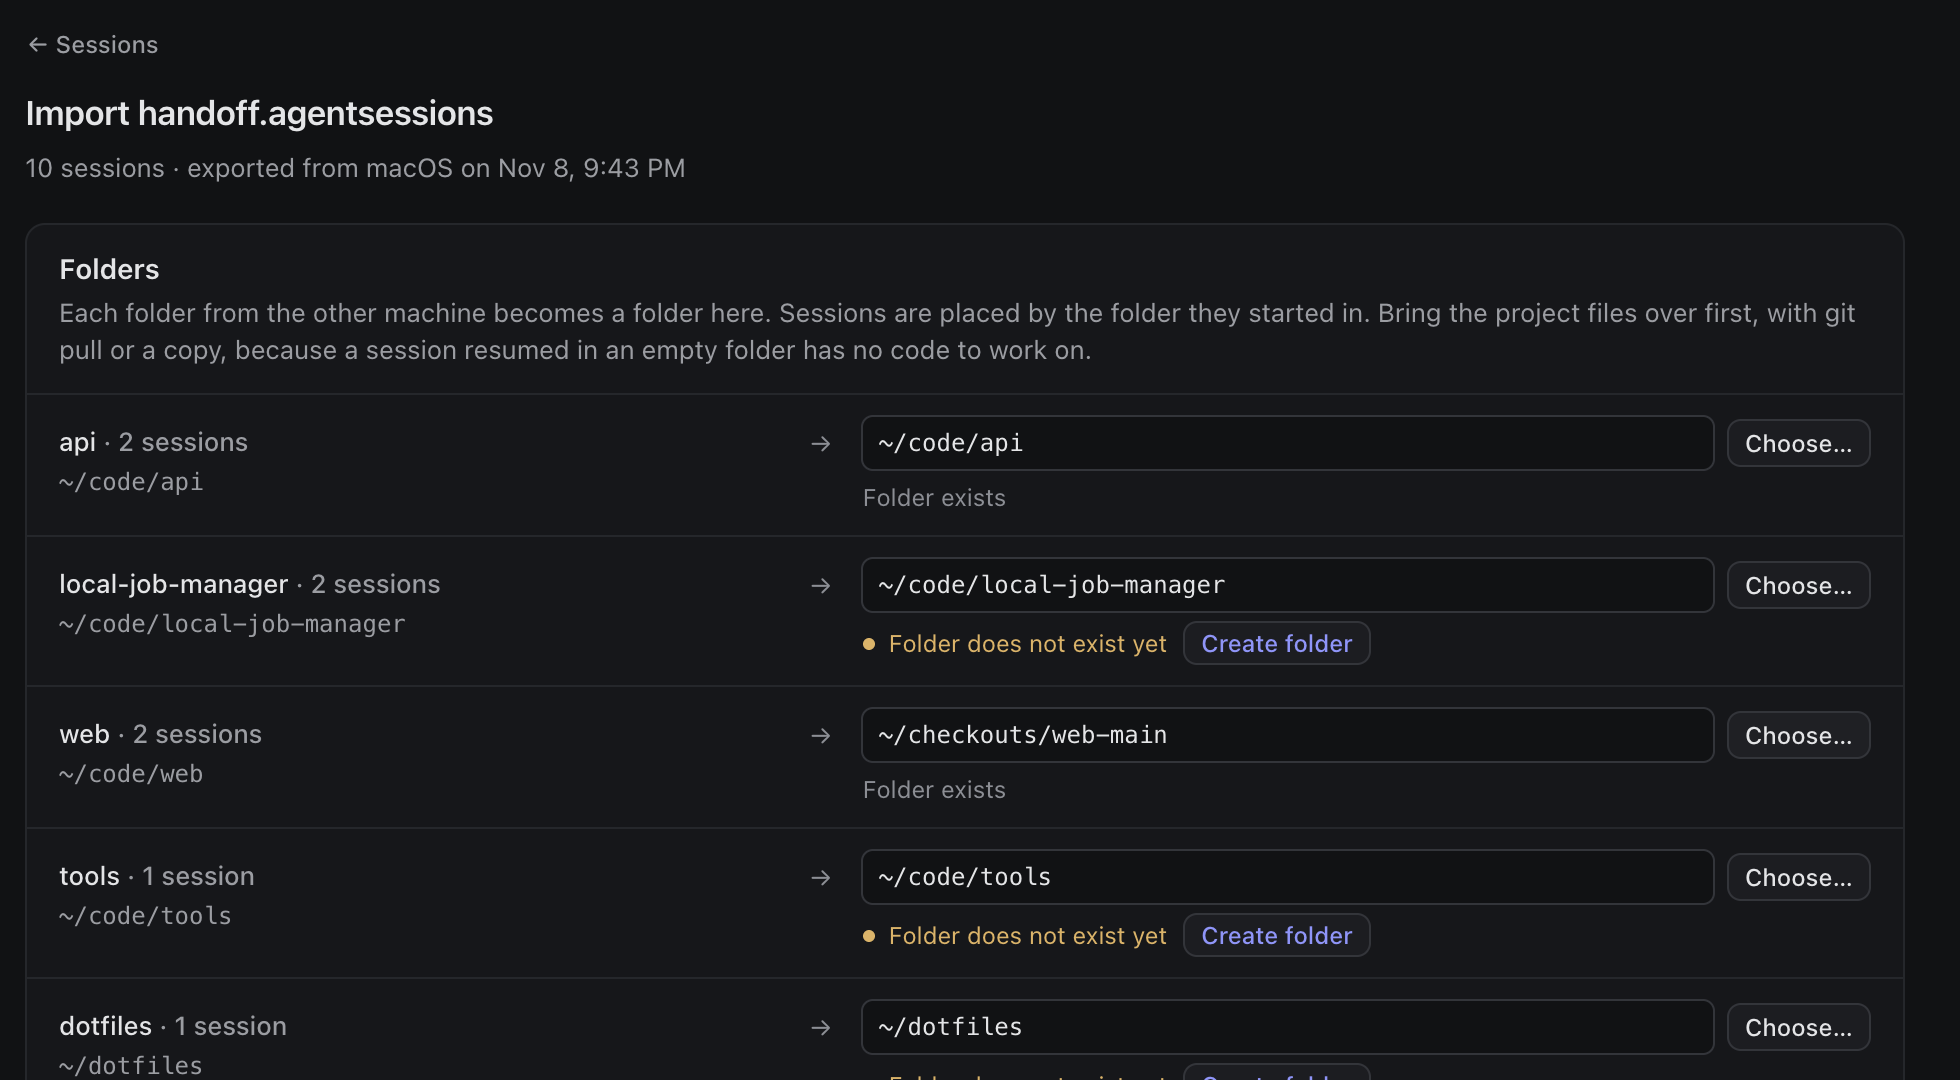
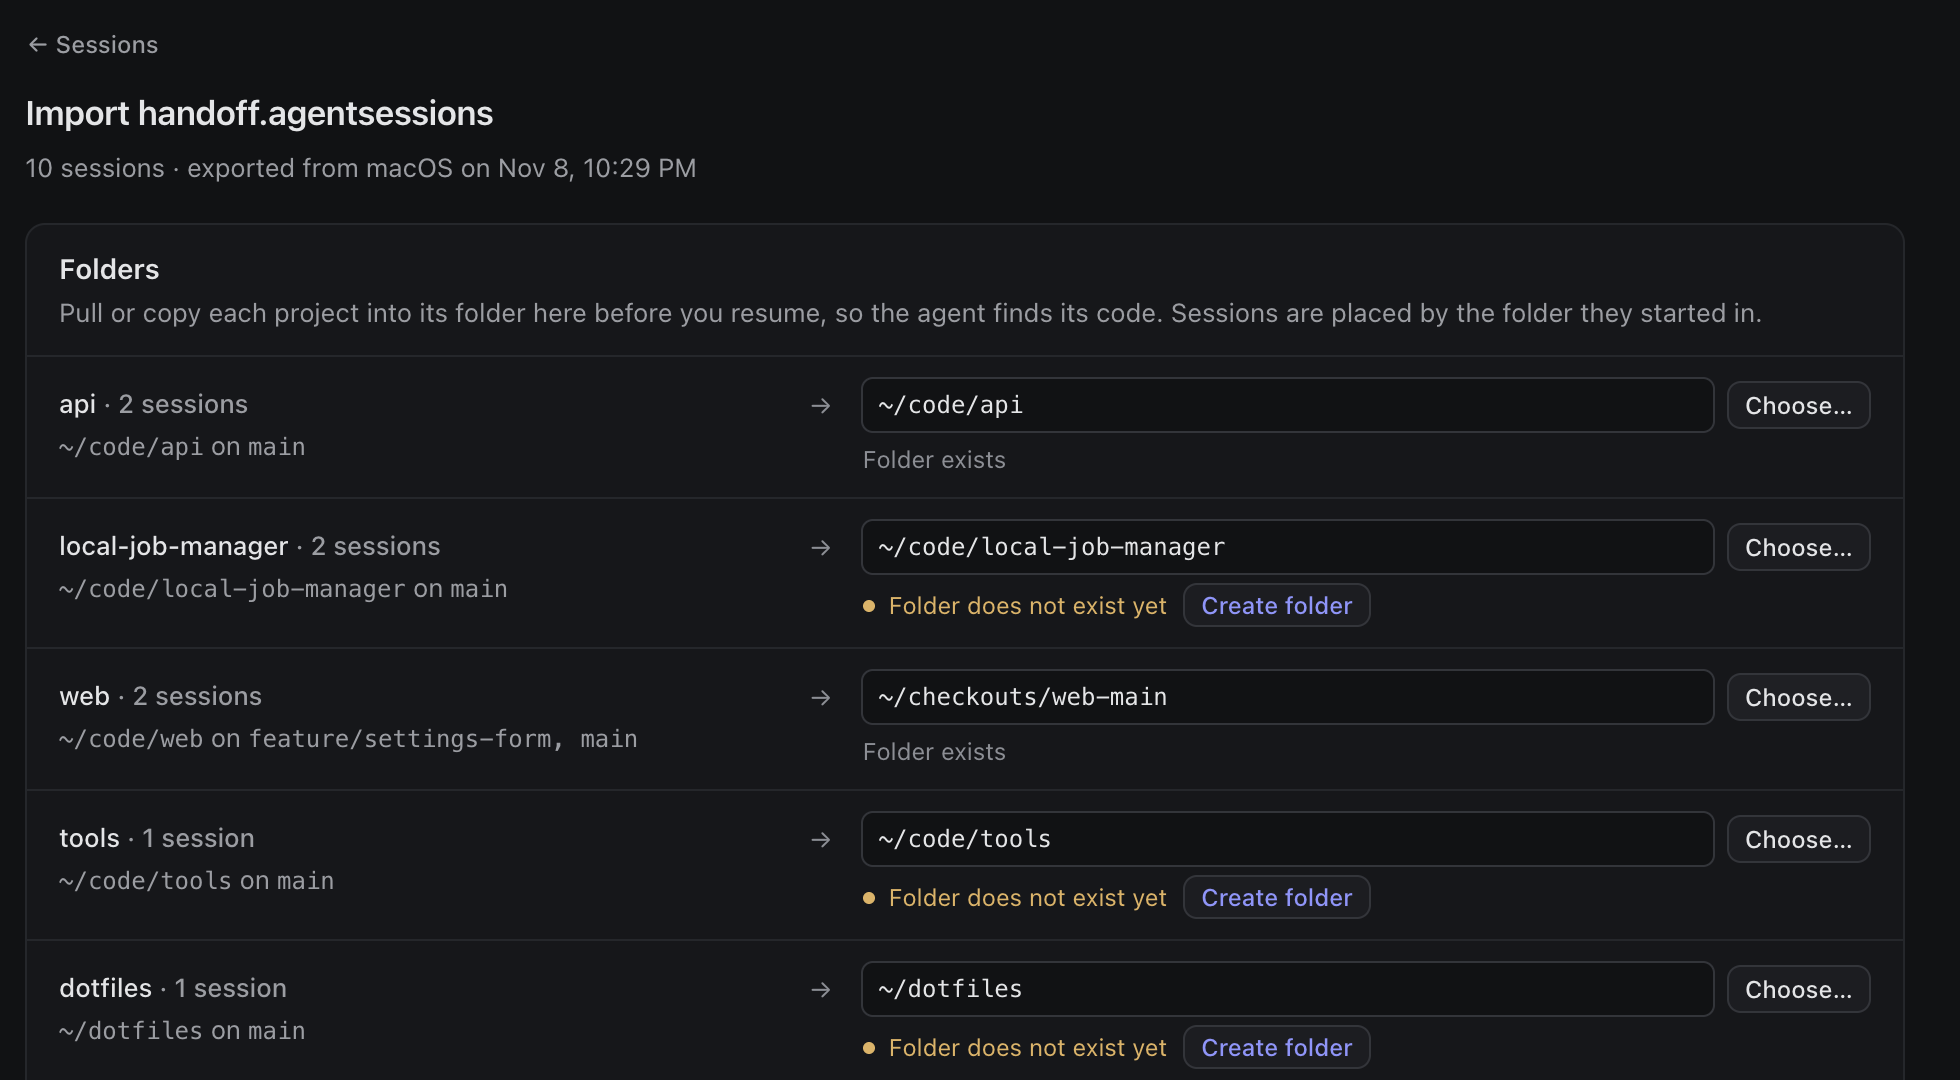
fix(ui): put the branch on the path line and lead reminders with the action
Folder rows go back to two lines, with the branch after the source path.
The Folders panel, the results header, and the export dialog now open with
what to do. The site's step 3 no longer repeats the import section, which
gains a line about branches.

diff --git a/src/renderer/src/components/MappingEditor.tsx b/src/renderer/src/components/MappingEditor.tsx
@@ -40,7 +40,7 @@ export function MappingEditor({ token, mappings, sessions, preview, checking, so
     <section className="panel" aria-labelledby="mapping-heading">
       <header className="panel-head">
         <h2 id="mapping-heading">Folders</h2>
-        <p className="dim">Each folder from the other machine becomes a folder here. Sessions are placed by the folder they started in. Bring the project files over first, with git pull or a copy, because a session resumed in an empty folder has no code to work on.</p>
+        <p className="dim">Pull or copy each project into its folder here before you resume, so the agent finds its code. Sessions are placed by the folder they started in.</p>
       </header>
       <ul className="mappings">
         {mappings.map((mapping) => {
@@ -123,8 +123,15 @@ function MappingRow({
         <span className="mapping-name">
           {folderName(mapping.source)} <span className="dim">· {plural(uses, 'session')}</span>
         </span>
-        <code className="truncate dim">{tildePath(mapping.source, sourceHome)}</code>
-        {branches && <span className="mapping-branches truncate dim">{branches}</span>}
+        <span className="mapping-path truncate dim" title={branches ? `${mapping.source} on ${branches}` : mapping.source}>
+          <code>{tildePath(mapping.source, sourceHome)}</code>
+          {branches && (
+            <>
+              {' on '}
+              <code className="mapping-branches">{branches}</code>
+            </>
+          )}
+        </span>
       </div>
       <span className="mapping-arrow" aria-hidden="true">
         →

diff --git a/site/index.html b/site/index.html
@@ -377,7 +377,7 @@ footer a:hover { color: var(--text); }
       <li class="step">
         <span class="n">03</span>
         <h3>Import and resume</h3>
-        <p>Point each project at its folder on this computer. The app writes nothing until you start, and a failed import rolls back.</p>
+        <p>Open the file on the other computer, confirm where each project lives, and run the resume command.</p>
         <code class="token">claude --resume <span class="dim">5c00…0000</span></code>
       </li>
     </ol>
@@ -389,6 +389,7 @@ footer a:hover { color: var(--text); }
       <h2>Point each project at its folder on this computer.</h2>
       <p>Your code can live at a different path here. Import lists every project folder from the other computer and suggests the same path under your home folder.</p>
       <ul class="points">
+        <li>Each folder shows the git branch its sessions were on, so you know what to check out.</li>
         <li>Create a missing folder from the preview.</li>
         <li>The app writes nothing until you start the import.</li>
         <li>A failed import rolls back, and an update keeps a backup of the copy it replaces.</li>

diff --git a/src/renderer/src/model/format.ts b/src/renderer/src/model/format.ts
@@ -98,12 +98,12 @@ export function plural(count: number, one: string, many = `${one}s`): string {
   return `${count} ${count === 1 ? one : many}`
 }
 
-/** The distinct branches the sessions were on, such as `branches main, feature/x`. Null when none recorded one. */
+/** The distinct branches the sessions were on, such as `feature/x, main`. Null when none recorded one. */
 export function branchesLabel(sessions: readonly Pick<SessionInfo, 'gitBranch'>[]): string | null {
   const branches = [...new Set(sessions.flatMap((session) => (session.gitBranch ? [session.gitBranch] : [])))].sort()
   if (branches.length === 0) return null
   const more = branches.length > 3 ? ` +${branches.length - 3}` : ''
-  return `${branches.length === 1 ? 'branch' : 'branches'} ${branches.slice(0, 3).join(', ')}${more}`
+  return `${branches.slice(0, 3).join(', ')}${more}`
 }
 
 export function sessionTitle(session: Pick<SessionInfo, 'title' | 'id'>): string {

diff --git a/src/renderer/src/components/ImportDone.tsx b/src/renderer/src/components/ImportDone.tsx
@@ -25,7 +25,7 @@ export function ImportDone({ screen, onDone }: { screen: DoneScreen; onDone: () 
           <h1>{placed.length > 0 ? `${plural(placed.length, 'session')} placed` : 'Nothing was imported'}</h1>
           <p className="dim">
             {placed.length > 0 &&
-              `The files are where ${agents.join(' and ')} looks for them. Pull your latest changes into each folder, then run a resume command in a terminal. Agent Sessions cannot check that the agent opens them. `}
+              `Pull your latest changes into each folder, then run a resume command in a terminal. The files are where ${agents.join(' and ')} looks for them, but Agent Sessions cannot check that the agent opens them. `}
             {failed.length > 0 && `${plural(failed.length, 'session')} did not import.`}
           </p>
         </header>

diff --git a/src/renderer/src/components/ExportSheet.tsx b/src/renderer/src/components/ExportSheet.tsx
@@ -62,8 +62,7 @@ export function ExportSheet({ screen, sessions, progress, onConfirm, onClose }: 
         <li>system prompts and every message</li>
         <li>contents of files and output of commands the agent read</li>
       </ul>
-      <p className="dim">Credentials, auth tokens, settings, and prompt history are never included.</p>
-      <p className="dim">The archive holds the conversations, not your project files. Push your latest changes, or copy the project, so the other computer has them too.</p>
+      <p className="dim">Credentials, auth tokens, settings, prompt history, and your project files are never included. Push or copy the project so the other computer has your latest changes.</p>
       {live.length > 0 && (
         <div className="note">
           <p>

diff --git a/test/format.test.ts b/test/format.test.ts
@@ -35,8 +35,8 @@ describe('folder branches', () => {
   const on = (...branches: (string | null)[]) => branches.map((gitBranch) => ({ gitBranch }))
   it('names the distinct branches, sorted, at most three', () => {
     expect(branchesLabel(on(null, null))).toBeNull()
-    expect(branchesLabel(on('main', null, 'main'))).toBe('branch main')
-    expect(branchesLabel(on('main', 'feature/x'))).toBe('branches feature/x, main')
-    expect(branchesLabel(on('e', 'd', 'c', 'b', 'a'))).toBe('branches a, b, c +2')
+    expect(branchesLabel(on('main', null, 'main'))).toBe('main')
+    expect(branchesLabel(on('main', 'feature/x'))).toBe('feature/x, main')
+    expect(branchesLabel(on('e', 'd', 'c', 'b', 'a'))).toBe('a, b, c +2')
   })
 })

diff --git a/src/renderer/src/styles/import.css b/src/renderer/src/styles/import.css
@@ -93,8 +93,7 @@
   font-weight: 500;
 }
 
-.mapping-source code,
-.mapping-branches {
+.mapping-path {
   margin-top: 2px;
 }
 
